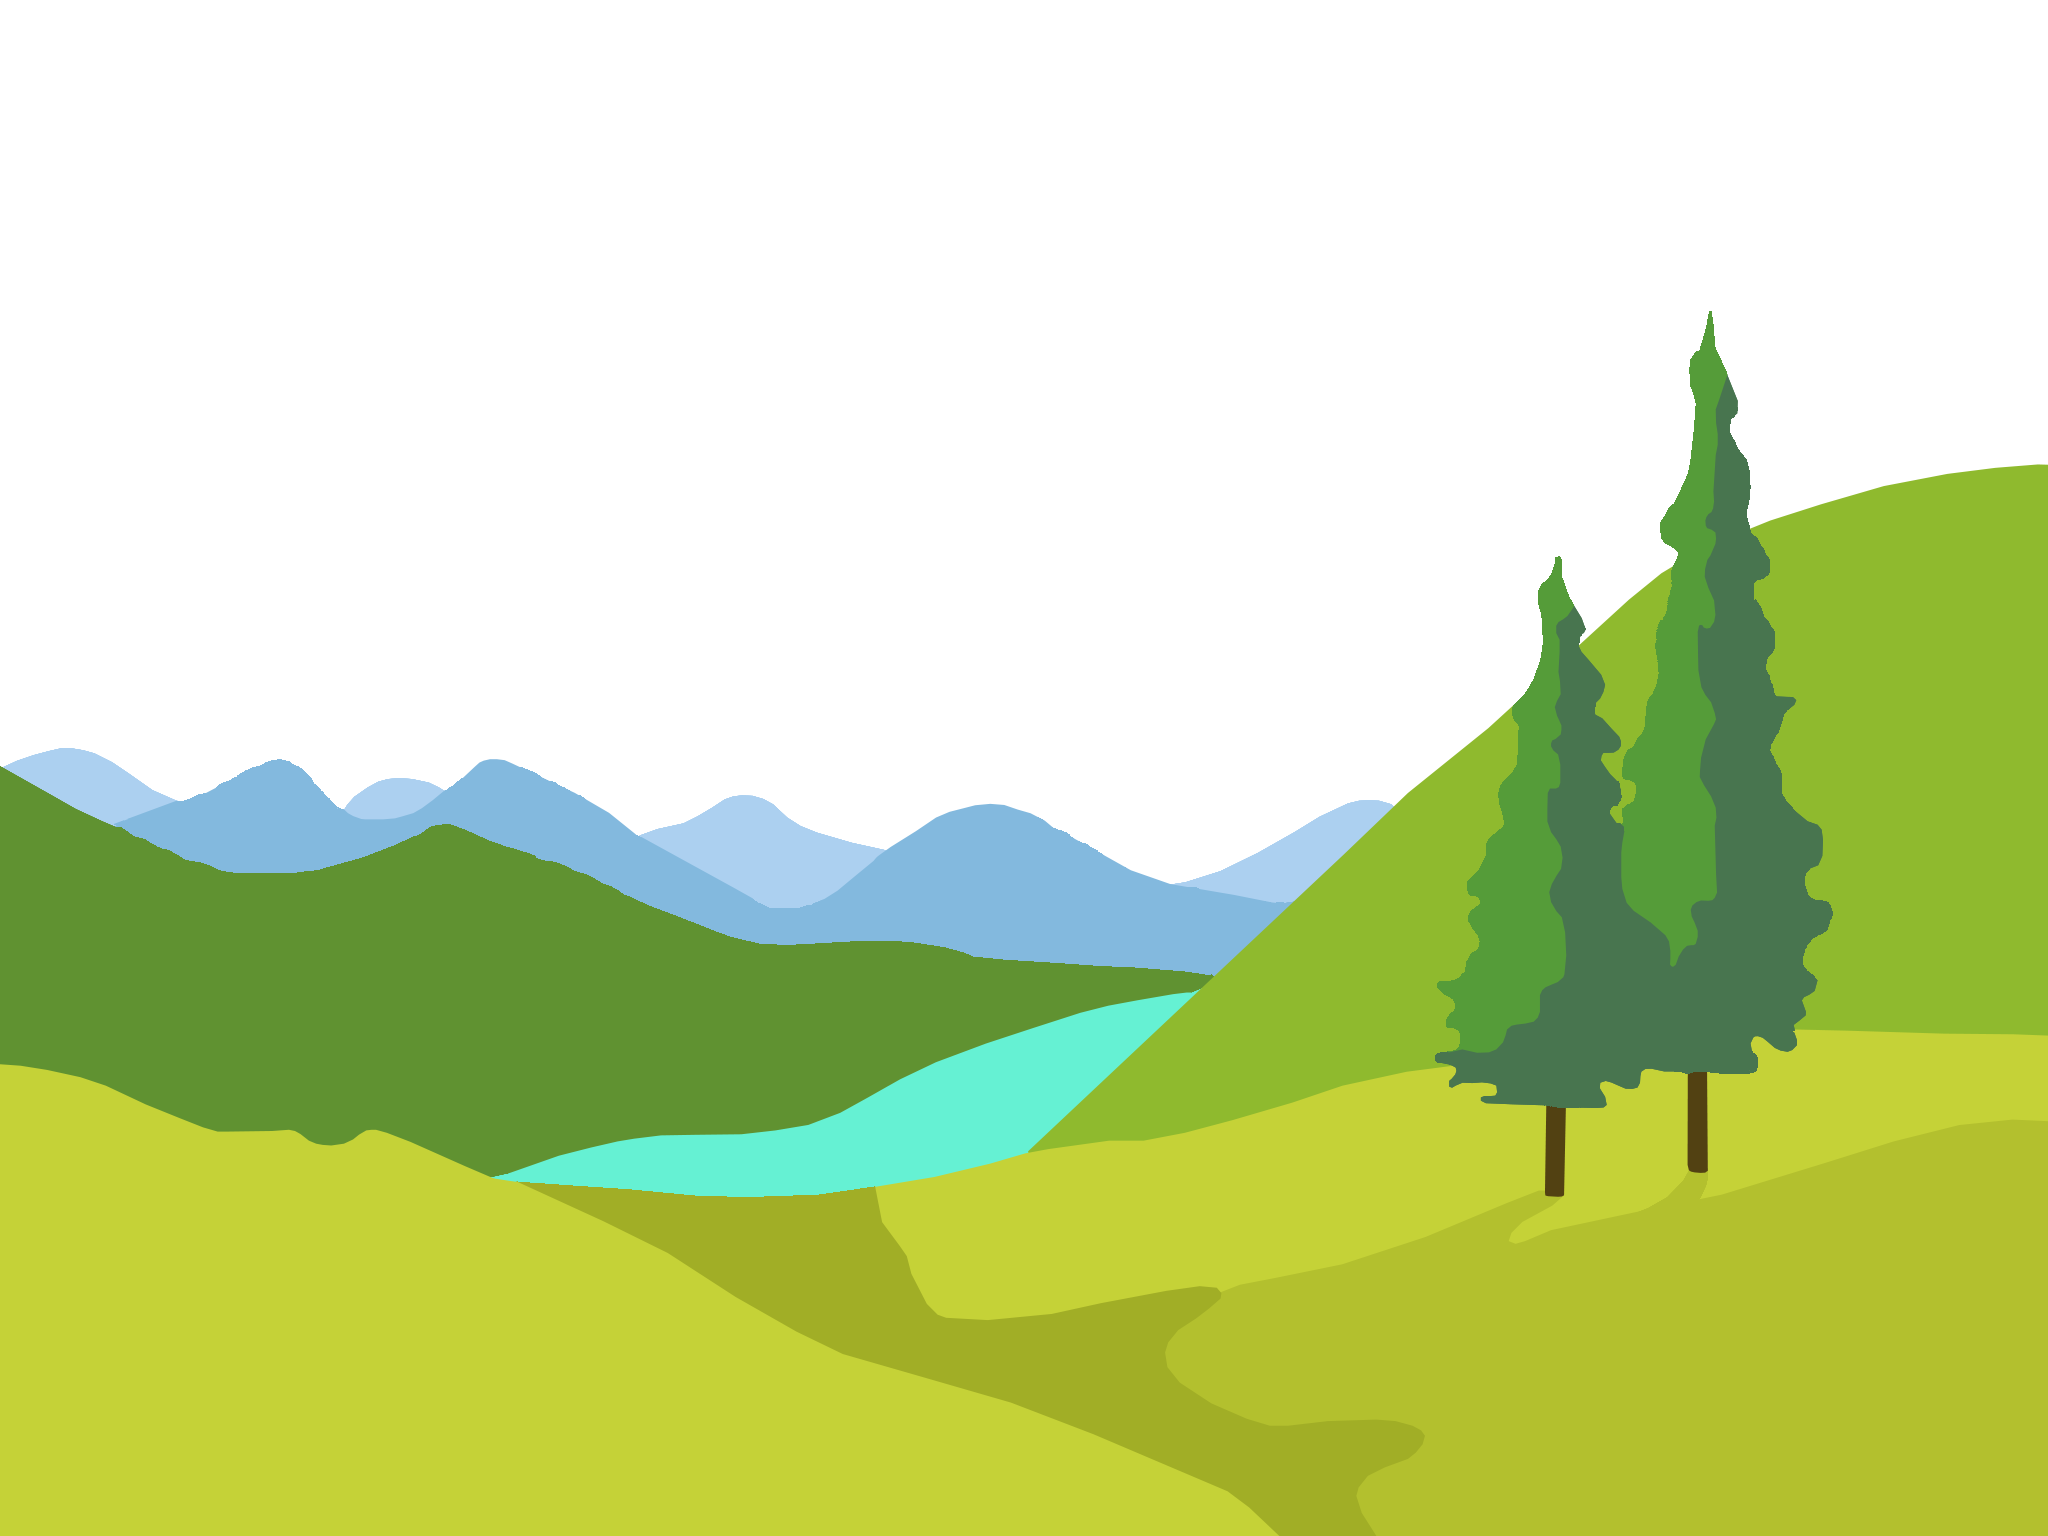
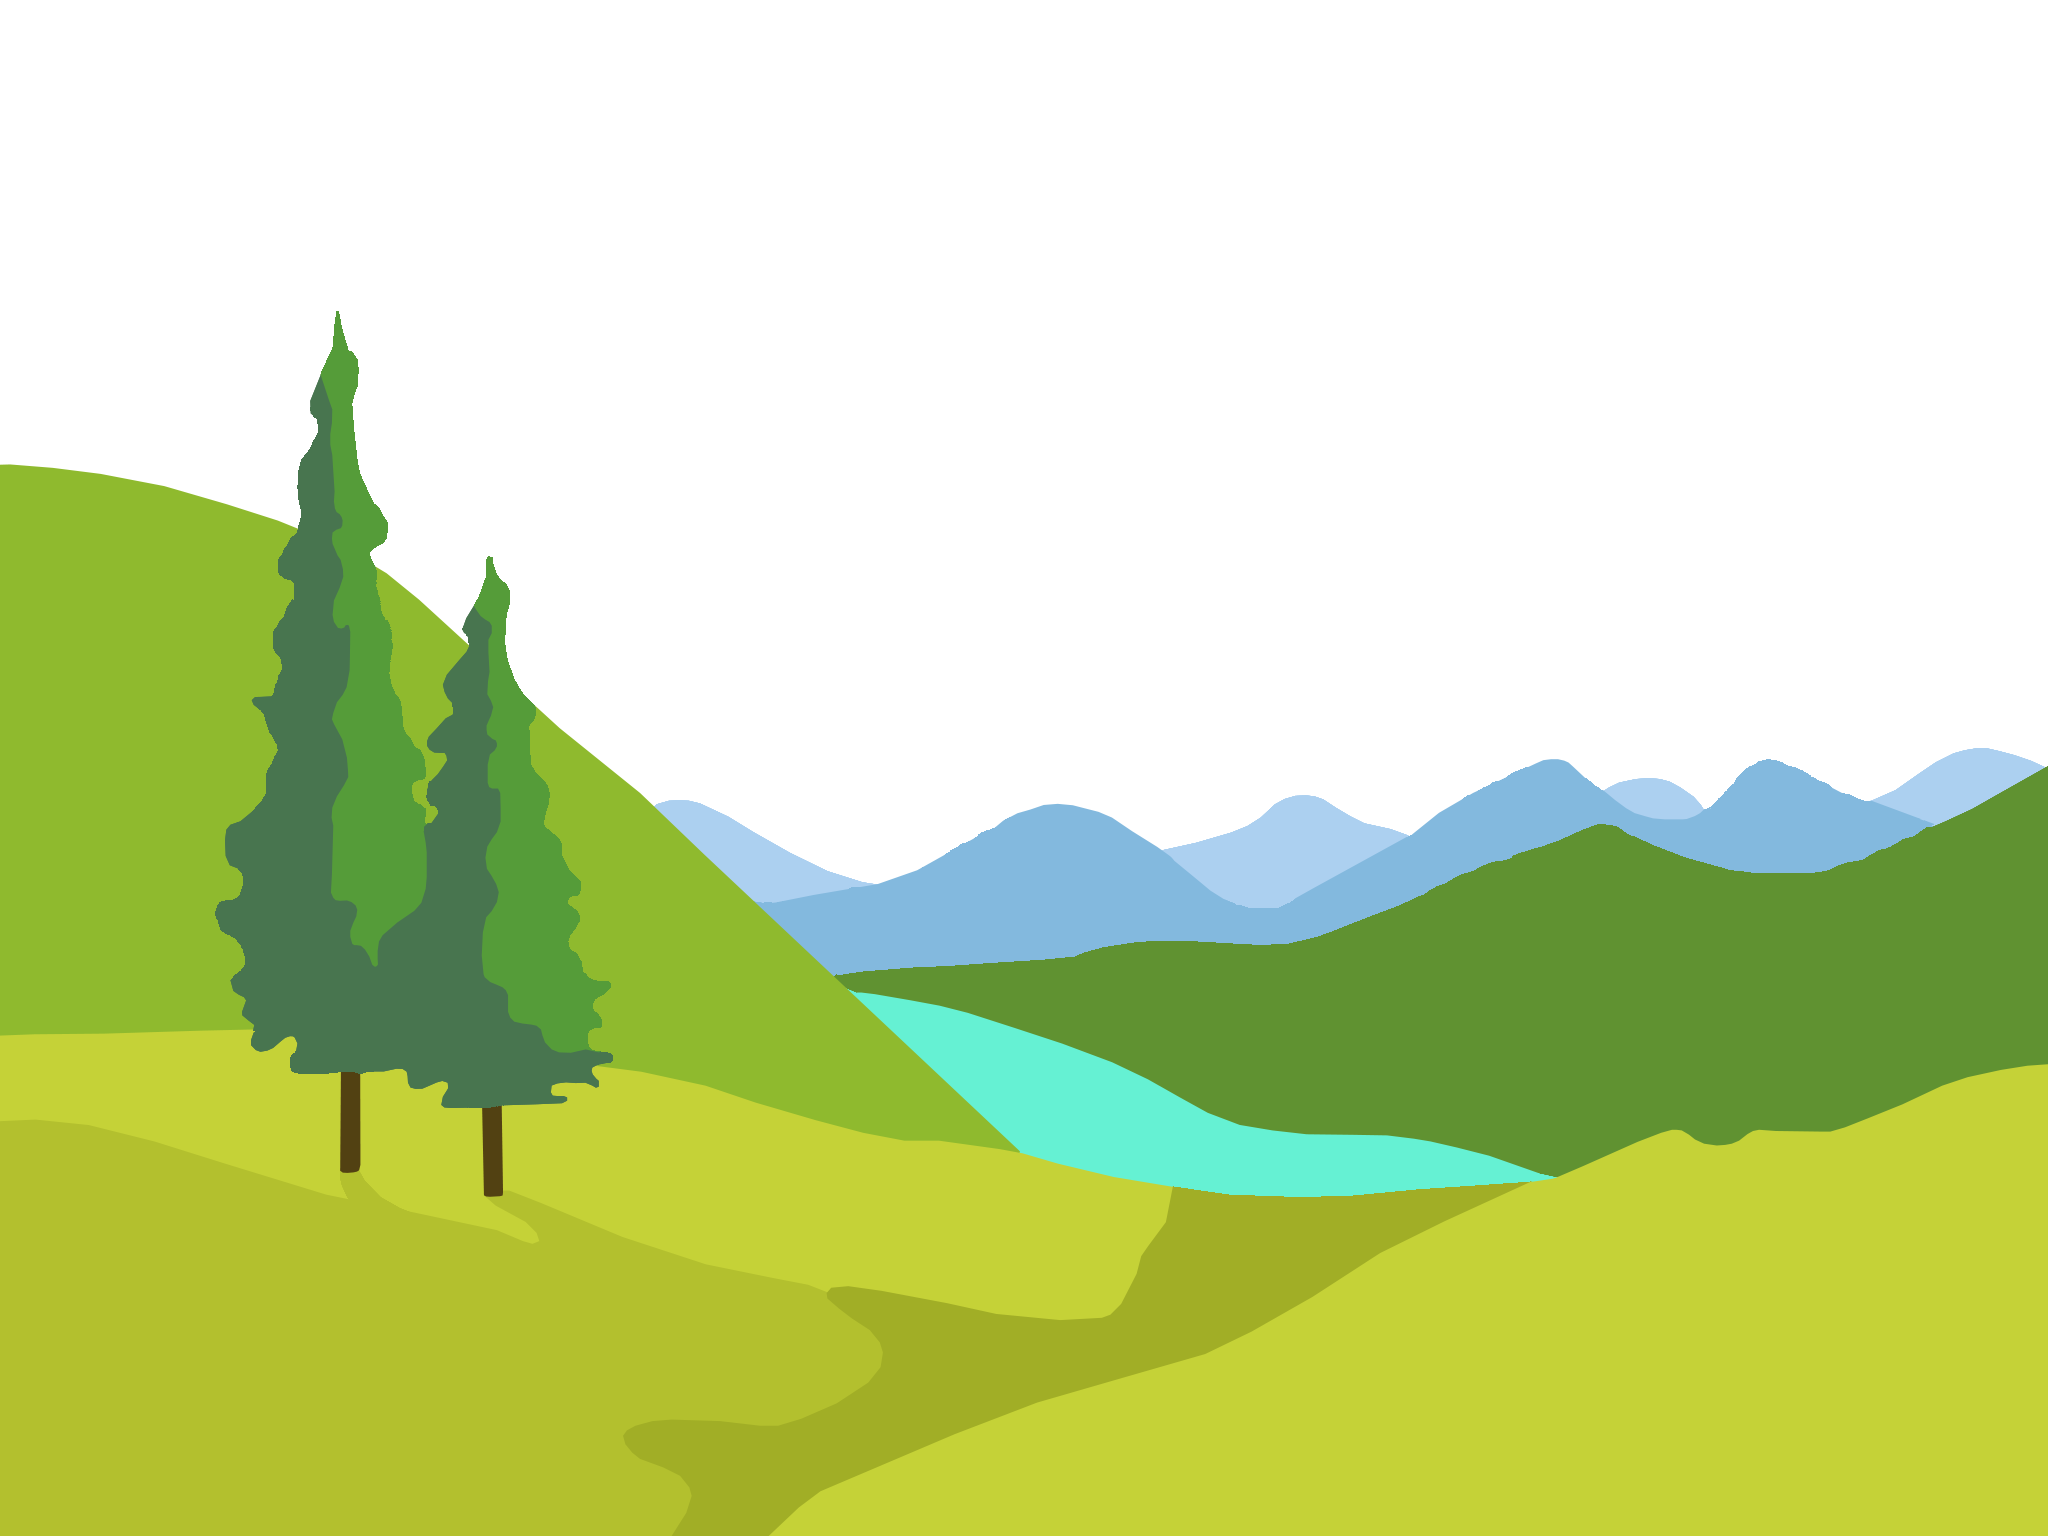
Pushed To Merge With Justin

diff --git a/src/main/java/uk/ac/cam/cl/interactiondesign/group8/ui/Scene.java b/src/main/java/uk/ac/cam/cl/interactiondesign/group8/ui/Scene.java
@@ -77,7 +77,7 @@ public class Scene extends JPanel {
         // Background land
         JImage landBackground = new JImage();
         try {
-            landBackground.setImage(ResourceLoader.loadImage("scenecomponents/background.png"));
+            landBackground.setImage(ResourceLoader.loadImage("scenecomponents/backgroundbonzi.png"));
         } catch (IOException e) {
             throw new RuntimeException(e.getMessage());
         }
@@ -86,30 +86,21 @@ public class Scene extends JPanel {
 
         // Widget layer
         JPanel widgetPanel = new JPanel();
-        widgetPanel.setLayout(new GridBagLayout());
+        widgetPanel.setLayout(null);
         widgetPanel.setOpaque(false);
-        GridBagConstraints gc = new GridBagConstraints();
 
         character = new Bonjo();
-        gc.gridx = 1;
-        gc.gridy = 2;
-        widgetPanel.add(character, gc);
+        widgetPanel.add(character);
 
         temperature = new Temperature(this);
-        gc.gridx = 2;
-        gc.gridy = 1;
-        widgetPanel.add(temperature, gc);
+        widgetPanel.add(temperature);
 
         tree = new Tree(this);
 
         windSock = new WindSock(this);
-        gc.gridx = 2;
-        gc.gridy = 2;
-		widgetPanel.add(windSock, gc);
+		widgetPanel.add(windSock);
 		
 		cog = new Cog(this);
-        gc.gridx = 1;
-		gc.gridy = 1;
 		JFrame frame = (JFrame) SwingUtilities.windowForComponent(this);
 		SettingsDialog settingsDialog = new SettingsDialog(frame, SettingsDialog.generateSummand(10, 99), SettingsDialog.generateSummand(10, 99));
 		settingsDialog.pack();
@@ -138,7 +129,21 @@ public class Scene extends JPanel {
 				@Override
 				public void mouseClicked(MouseEvent arg0) {}
 		});
-        widgetPanel.add(cog, gc);
+        widgetPanel.add(cog);
+
+        widgetPanel.addComponentListener(new ComponentAdapter() {
+            public void componentResized(ComponentEvent e) {
+                character.setBounds(
+                	(int)(0.384f * e.getComponent().getWidth()), (int)(0.588f * e.getComponent().getHeight()),
+					(int)(0.708f * e.getComponent().getWidth()), (int)(0.960f * e.getComponent().getHeight()));
+                temperature.setBounds(
+                	(int)(0.725f * e.getComponent().getWidth()), (int)(0.593f * e.getComponent().getHeight()),
+					(int)(0.250f * e.getComponent().getWidth()), (int)(0.310f * e.getComponent().getHeight()));
+                windSock.setBounds(
+                	(int)(0.765f * e.getComponent().getWidth()), (int)(0.257f * e.getComponent().getHeight()),
+					(int)(0.128f * e.getComponent().getWidth()), (int)(0.294f * e.getComponent().getHeight()));
+            }
+        });
 
         jlp.add(widgetPanel, JLayeredPane.PALETTE_LAYER);
 

diff --git a/src/main/java/uk/ac/cam/cl/interactiondesign/group8/WeatherApp.java b/src/main/java/uk/ac/cam/cl/interactiondesign/group8/WeatherApp.java
@@ -30,6 +30,7 @@ public class WeatherApp extends JFrame {
             scene.getTimeCarousel().setTime(time);
             // Get the weather from the API and update the UI
             scene.getTemperature().setTemperature((int)weatherAPI.getWeatherAtTime(time).getCurrentTemperature());
+            scene.getWindSock().setWindSpeed((int)weatherAPI.getWeatherAtTime(time).getWindSpeed());
         } catch (WeatherAPI.UnableToGetWeatherException e) {
         }
     }

diff --git a/src/main/java/uk/ac/cam/cl/interactiondesign/group8/ui/Temperature.java b/src/main/java/uk/ac/cam/cl/interactiondesign/group8/ui/Temperature.java
@@ -14,7 +14,10 @@ public class Temperature extends JPanel {
 
     // Updates the temperature displayed on the sign/thermometer
     public void setTemperature(int temp) {
-        tempLabel.setText(Integer.toString(temp));
+        tempLabel.setText(
+            UnitConverter.tempToString(UnitConverter.Temp.C,
+            UnitConverter.convertTemp(UnitConverter.Temp.K, UnitConverter.Temp.C,
+                temp)));
     }
 
     public Temperature(Scene s) {

diff --git a/src/main/java/uk/ac/cam/cl/interactiondesign/group8/ui/WindSock.java b/src/main/java/uk/ac/cam/cl/interactiondesign/group8/ui/WindSock.java
@@ -34,6 +34,5 @@ public class WindSock extends JImage {
         }
 
         setImage(windSockImages[0]);
-        setPreferredSize(new Dimension(100, 100));
     }
 }
